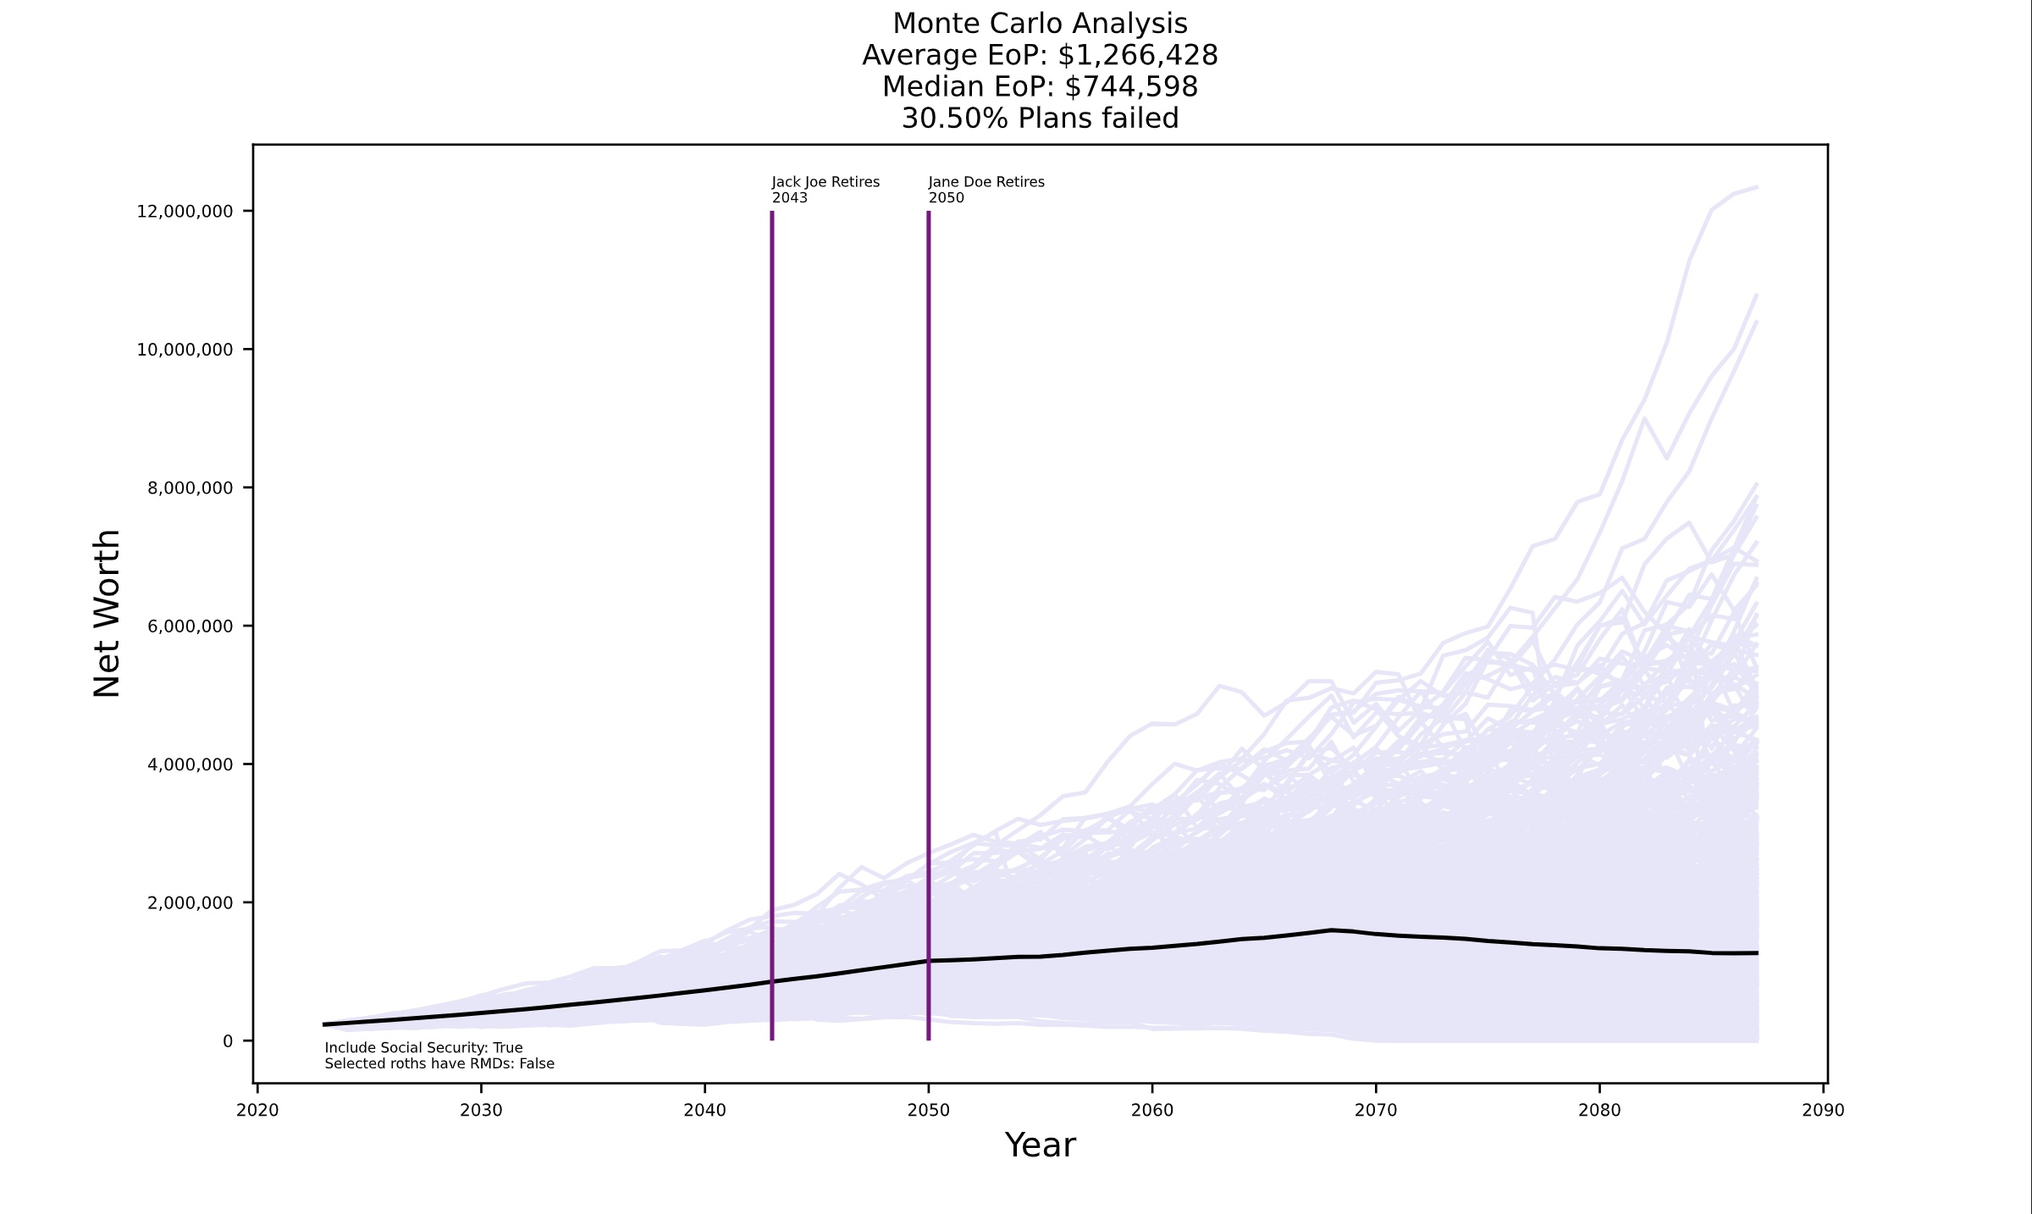
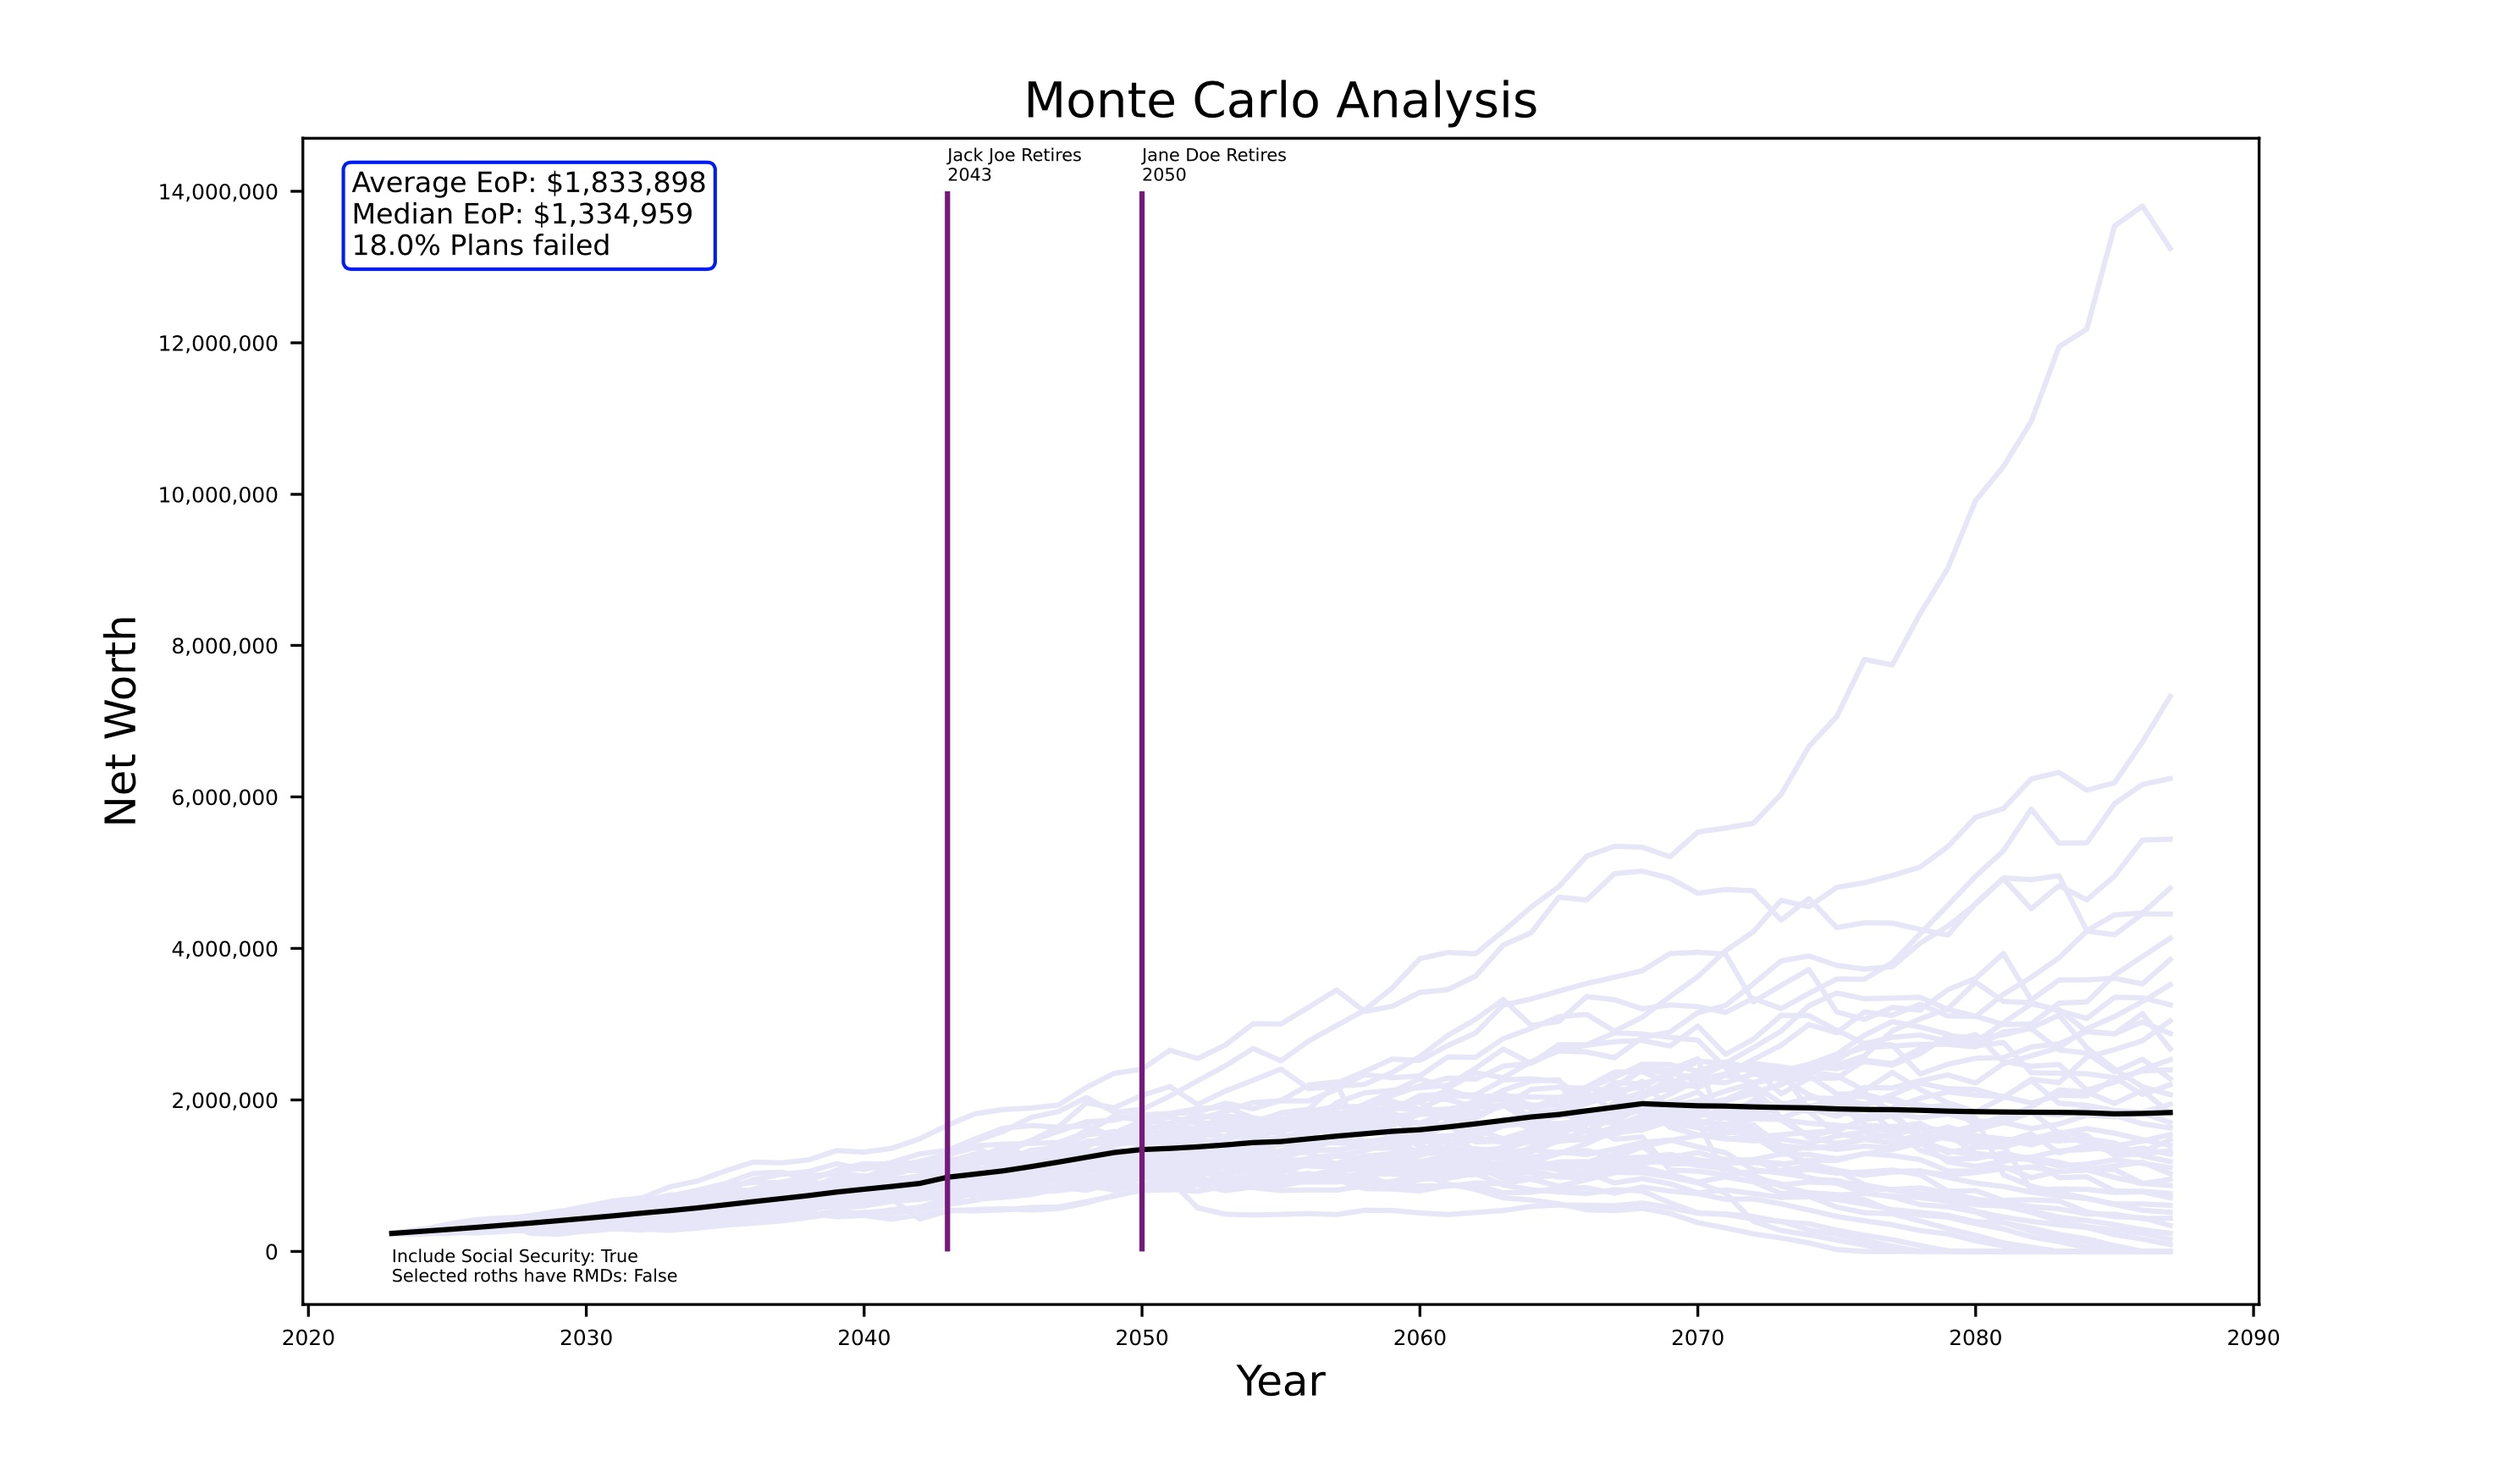
Cleaning up the graphs a bit

diff --git a/src/plot_monte_carlos.py b/src/plot_monte_carlos.py
@@ -64,7 +64,8 @@ def plot_monte_carlos(data_for_analysis, failed_plans, pdf, owners, trial):
     fig = plt.figure(figsize=(10,6), dpi=300)
     for i, data in enumerate(data_for_analysis):
         analysis[i] = data['Sum of Accounts'].values
-        plt.plot(data['Year'], data['Sum of Accounts'], color='lavender')
+        if i%20==0:
+            plt.plot(data['Year'], data['Sum of Accounts'], color='lavender')
     
     average_plot = analysis.mean(axis=0)
     plt.plot(data_for_analysis[0]['Year'], average_plot, color='black')
@@ -90,12 +91,12 @@ def plot_monte_carlos(data_for_analysis, failed_plans, pdf, owners, trial):
     plt.xticks(fontsize=6)
     plt.ylabel('Net Worth', fontsize=12)
     plt.yticks(fontsize=6)
-    plt.title('Monte Carlo Analysis\nAverage EoP: ' 
-              + '${:,.0f}\n'.format(average_plot[-1])
-              + "Median EoP: "
-              + '${:,.0f}\n'.format(median)
-              + '{:.2f}%'.format(len(failed_plans)/iterations*100)
-              + ' Plans failed', fontsize=10)
+    plt.title('Monte Carlo Analysis', fontsize=14)
+        
+    results_to_include = 'Average EoP: ' + '${:,.0f}\n'.format(average_plot[-1]) + "Median EoP: " + '${:,.0f}\n'.format(median) + '{:.1f}%'.format(len(failed_plans)/iterations*100) + ' Plans failed'   
+    box_props = dict(boxstyle='round', facecolor='white', edgecolor='blue')
+    plt.text(0.025, 0.9, results_to_include, transform=plt.gca().transAxes, fontsize=8, bbox=box_props)
+
     pdf.savefig()
     plt.close(fig)
 
